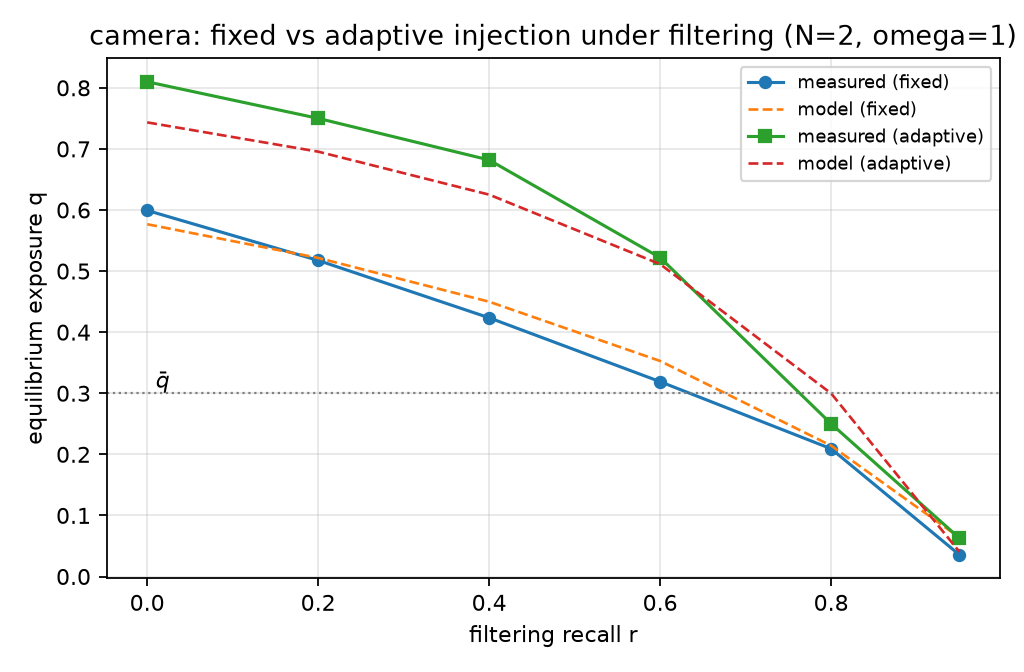
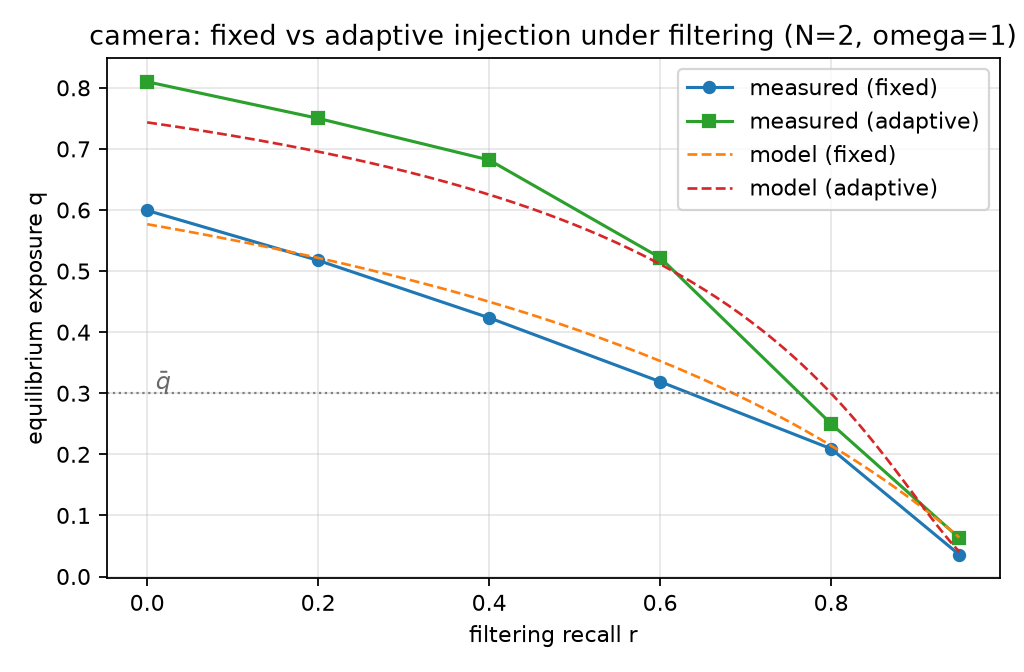
regenerate e1 diagnostic pngs with fine-grid model curves (old ones polyline-connected 6 grid points, looked spuriously linear)

diff --git a/src/replot_e1_diags.py b/src/replot_e1_diags.py
@@ -1,0 +1,44 @@
+import csv
+import sys
+from pathlib import Path
+
+import numpy as np
+import matplotlib
+matplotlib.use("Agg")
+import matplotlib.pyplot as plt
+
+sys.path.insert(0, str(Path(__file__).resolve().parent))
+from replay_lib import solve_brc_q
+
+R = Path(__file__).resolve().parents[1] / "results"
+RHO = {"camera": 0.3336, "ev": 0.9188, "shoes": 0.8391}
+POOL = {"camera": 176, "ev": 176, "shoes": 184}
+
+for dom in ("camera", "ev", "shoes"):
+    rows = list(csv.DictReader(open(R / "e1" / f"e1_{dom}.csv")))
+    agg = {}
+    for r in rows:
+        agg.setdefault((r["arm"], float(r["r"])), []).append(float(r["q_measured"]))
+    rs = sorted({rr for (_, rr) in agg})
+    fig, ax = plt.subplots(figsize=(6.4, 4.2))
+    ax.plot(rs, [np.mean(agg[("fixed", r)]) for r in rs], marker="o", ms=5, lw=1.4,
+            color="#1f77b4", label="measured (fixed)")
+    ax.plot(rs, [np.mean(agg[("adaptive", r)]) for r in rs], marker="s", ms=5, lw=1.4,
+            color="#2ca02c", label="measured (adaptive)")
+    rr = np.linspace(0, 0.95, 300)
+    X = 80 / POOL[dom]
+    ax.plot(rr, (1 - rr) * X / ((1 - rr) * X + RHO[dom]), ls="--", lw=1.2,
+            color="#ff7f0e", label="model (fixed)")
+    ax.plot(rr, [solve_brc_q(1 - t, 1.0, 2, RHO[dom]) for t in rr], ls="--", lw=1.2,
+            color="#d62728", label="model (adaptive)")
+    ax.axhline(0.3, ls=":", color="gray", lw=1.0)
+    ax.text(0.01, 0.306, r"$\bar q$", fontsize=11, color="dimgray")
+    ax.set_xlabel("filtering recall r")
+    ax.set_ylabel("equilibrium exposure q")
+    ax.set_title(f"{dom}: fixed vs adaptive injection under filtering (N=2, omega=1)")
+    ax.grid(alpha=0.3)
+    ax.legend()
+    fig.tight_layout()
+    fig.savefig(R / "e1" / f"e1_{dom}.png", dpi=160)
+    plt.close(fig)
+print("diagnostic pngs regenerated")
